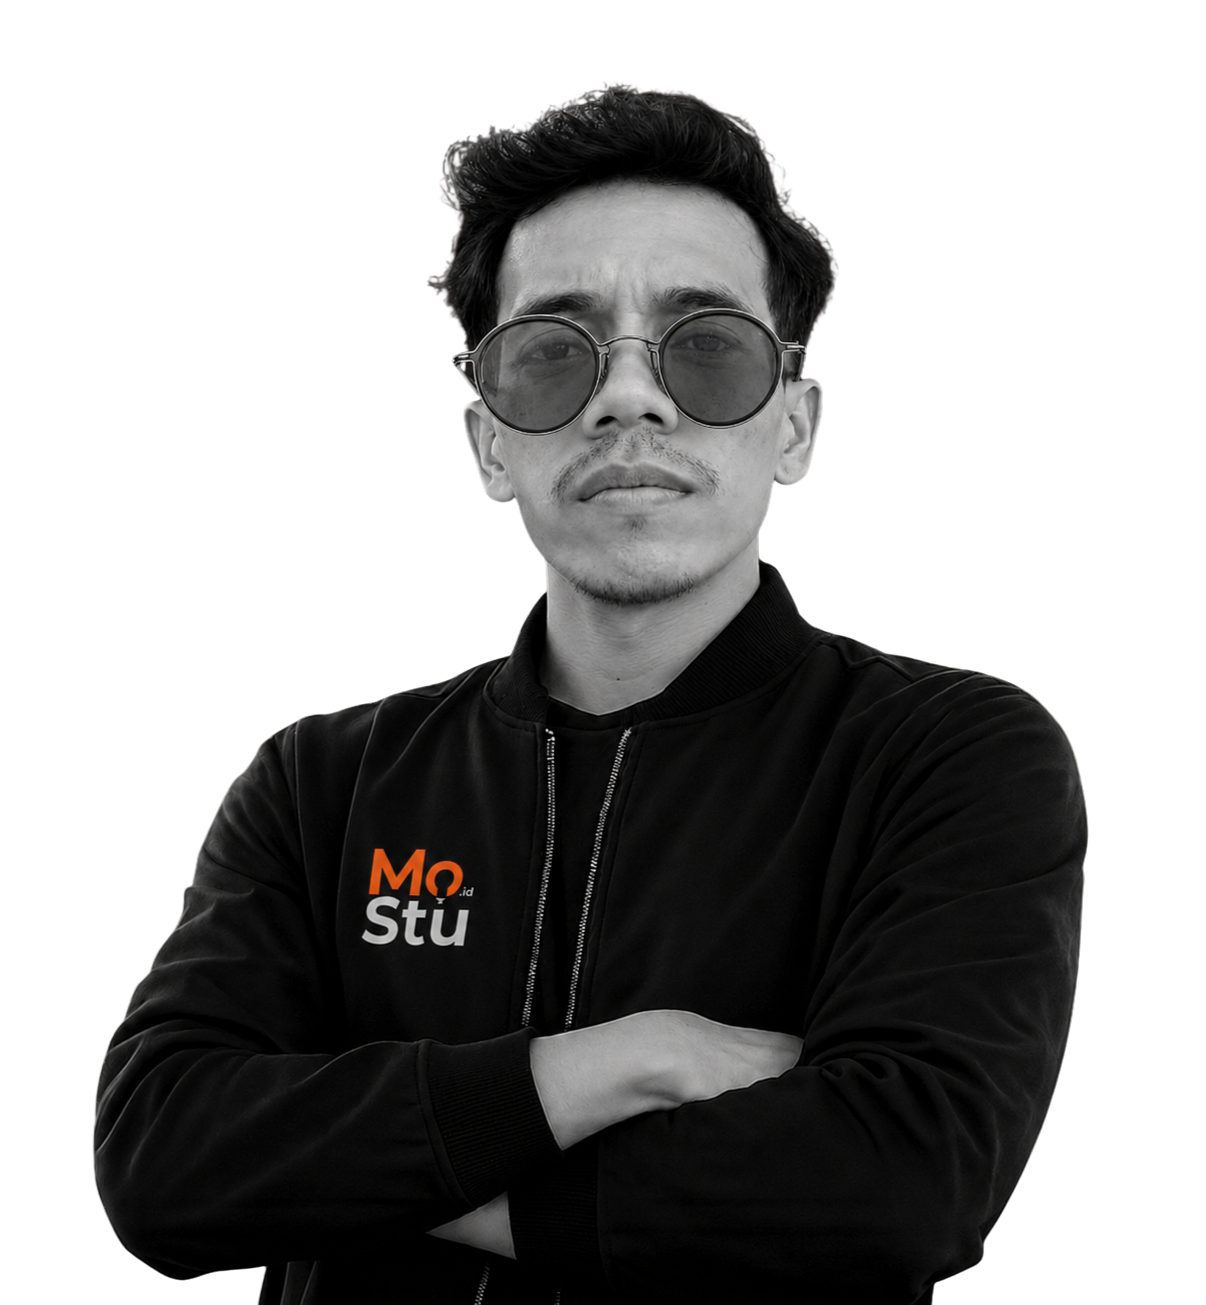
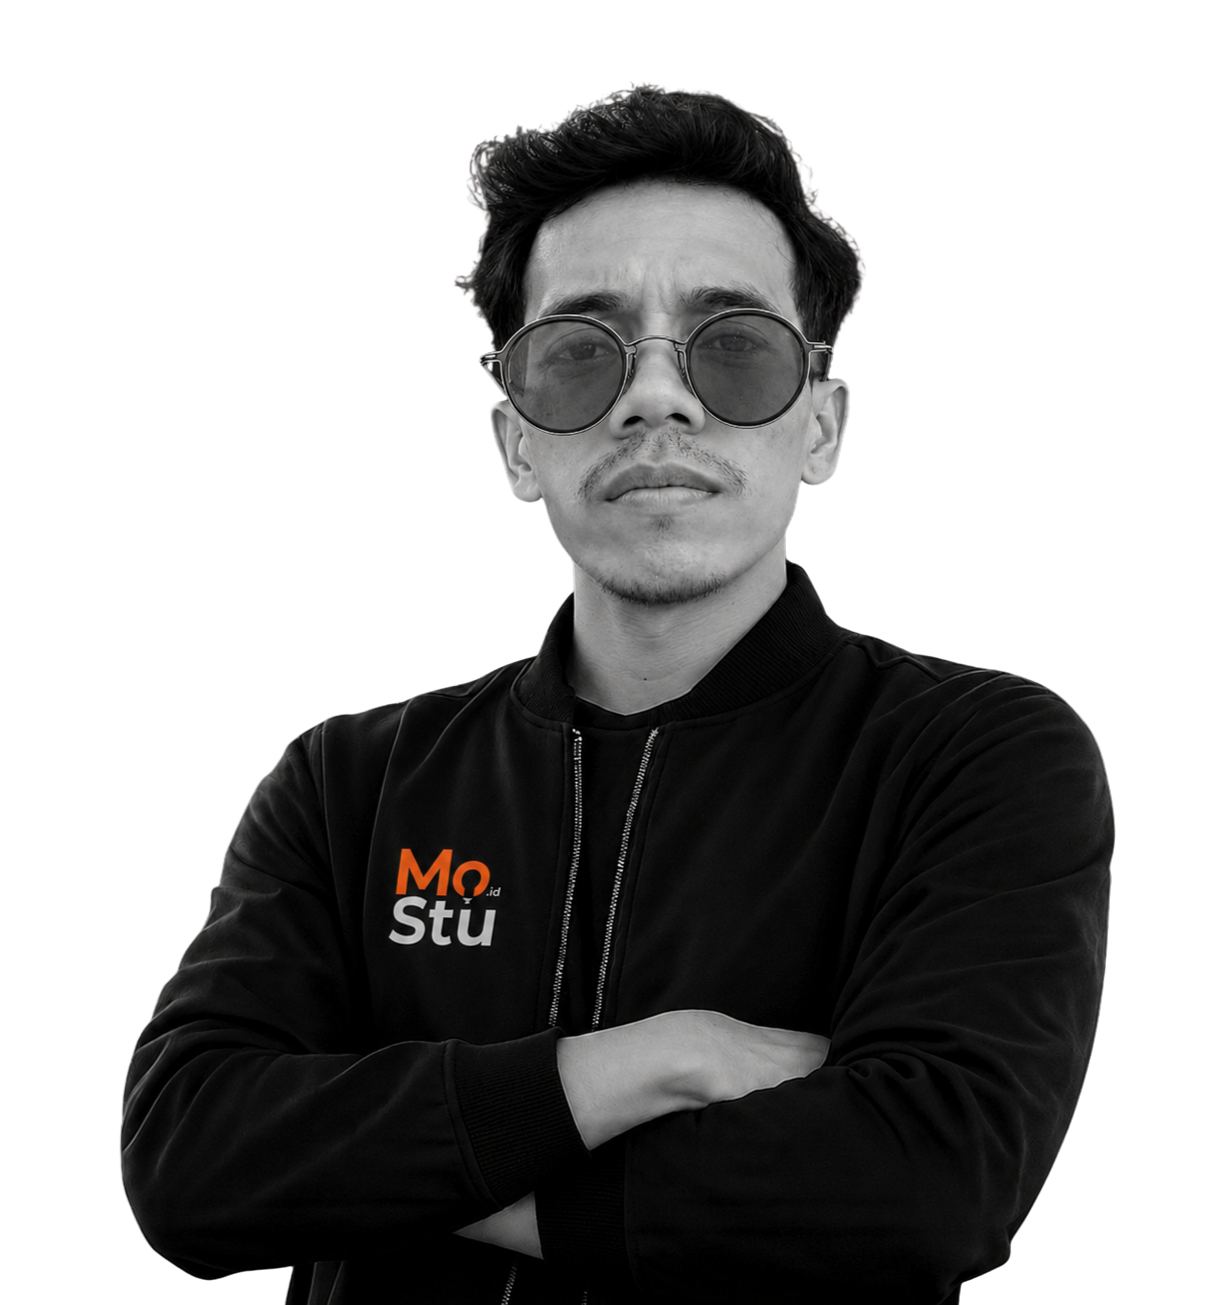
rev hero

diff --git a/src/App.jsx b/src/App.jsx
@@ -427,6 +427,16 @@ function HeroSection({ scrollToSection, setIsBriefModalOpen }) {
       img: cofounderimg,
       name: "Mohd. Daniel",
       role: "Co-Founder / Art Director"
+    },
+    {
+      img: markeximg,
+      name: "Mhd. Andre F",
+      role: "Marketing Executive"
+    },
+    {
+      img: providimg,
+      name: "Noval Pratama",
+      role: "Professional Videographer"
     }
   ];
 